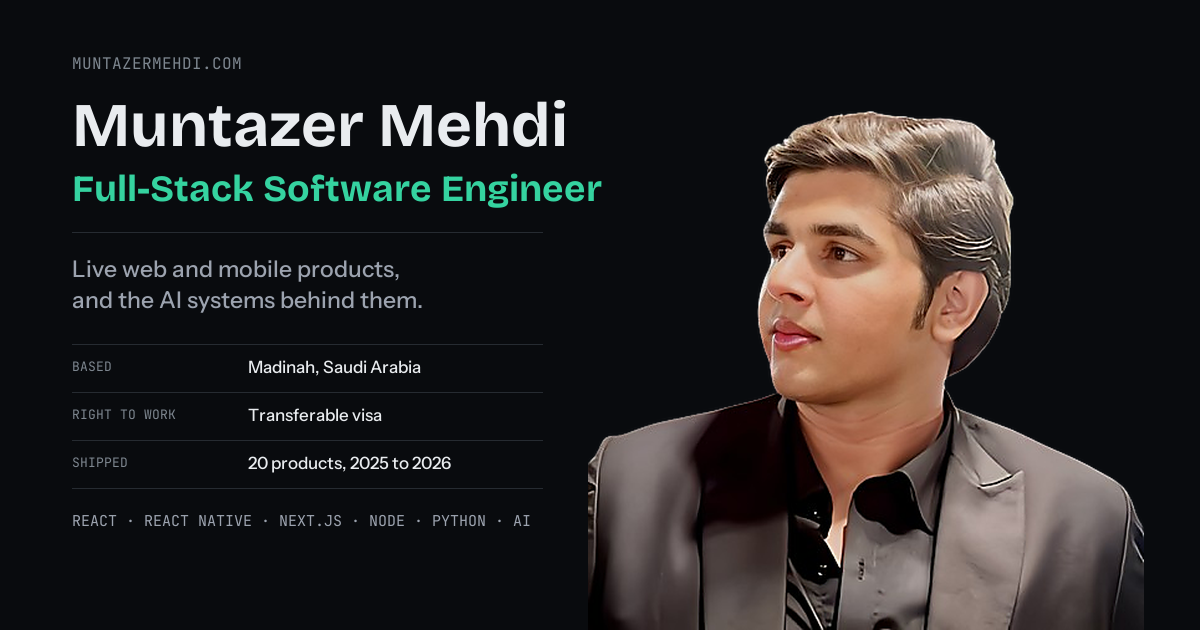
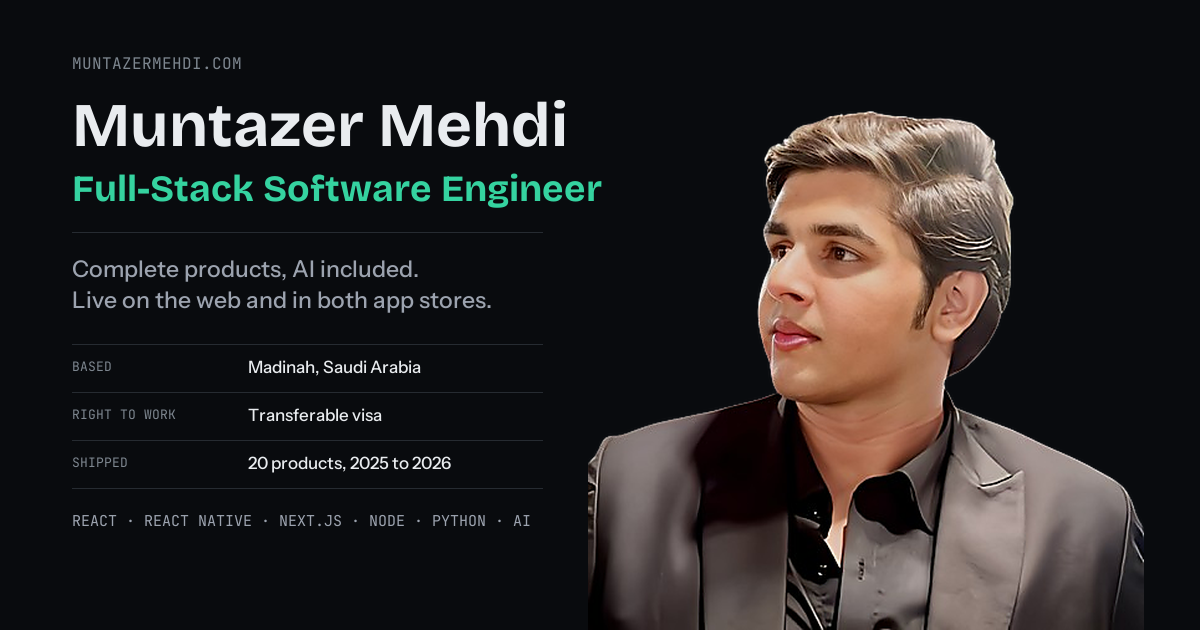
Lead the share card with proof of shipping
The card listed the stack and the count but never said the work reached
anyone. "Live on the web and in both app stores" is the hardest line on
there to fake, and it is true: Roley, PakRiceMarket and BackPack Buddies
all shipped to iOS and Android.

"AI included" keeps AI in the sentence rather than leaving it to the
stack row alone. og:description matches the card.

Changed region(s): [[0.0617, 0.3921, 0.4008, 0.5127]]

diff --git a/public/index.html b/public/index.html
@@ -19,7 +19,7 @@
     <meta property="og:site_name" content="Muntazer Mehdi" />
     <meta property="og:url" content="https://muntazermehdi.com/" />
     <meta property="og:title" content="Muntazer Mehdi, Full-Stack Software Engineer" />
-    <meta property="og:description" content="Live web and mobile products, and the AI systems behind them. 20 products shipped across 2025 and 2026. In Saudi Arabia on a transferable visa, open to new roles." />
+    <meta property="og:description" content="Complete products, AI included. Live on the web and in both app stores. 20 products shipped across 2025 and 2026. In Saudi Arabia on a transferable visa, open to new roles." />
     <meta property="og:image" content="https://muntazermehdi.com/og-image.png" />
     <meta property="og:image:width" content="1200" />
     <meta property="og:image:height" content="630" />
@@ -28,7 +28,7 @@
 
     <meta name="twitter:card" content="summary_large_image" />
     <meta name="twitter:title" content="Muntazer Mehdi, Full-Stack Software Engineer" />
-    <meta name="twitter:description" content="Live web and mobile products, and the AI systems behind them. 20 products shipped across 2025 and 2026. In Saudi Arabia on a transferable visa, open to new roles." />
+    <meta name="twitter:description" content="Complete products, AI included. Live on the web and in both app stores. 20 products shipped across 2025 and 2026. In Saudi Arabia on a transferable visa, open to new roles." />
     <meta name="twitter:image" content="https://muntazermehdi.com/og-image.png" />
     <!--
       manifest.json provides metadata used when your web app is installed on a
